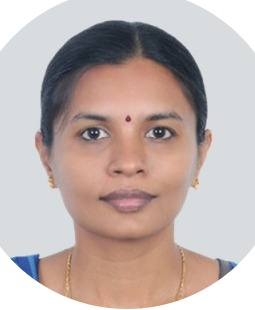
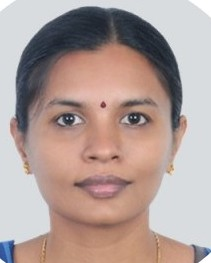
photos sec changed

diff --git a/src/components/CommitteeList.jsx b/src/components/CommitteeList.jsx
@@ -1,11 +1,11 @@
 import React, { useEffect, useState } from "react";
-import '../components-css/CommitteStyles.css'
+import '../components-css/CommitteStyles.css';
 
 export default function CommitteeList() {
   const [members, setMembers] = useState([]);
-  const [tech,setTech]=useState([]);
-  const [pro,setPro]=useState([]);
-  const [org,setOrg]=useState([]);
+  const [tech, setTech] = useState([]);
+  const [pro, setPro] = useState([]);
+  const [org, setOrg] = useState([]);
 
   useEffect(() => {
     fetch("/data/committee.json")
@@ -20,12 +20,14 @@ export default function CommitteeList() {
       .then((data) => setTech(data))
       .catch((err) => console.error("Failed to load committee data:", err));
   }, []);
+
   useEffect(() => {
     fetch("/data/procommittee.json")
       .then((res) => res.json())
       .then((data) => setPro(data))
       .catch((err) => console.error("Failed to load committee data:", err));
   }, []);
+
   useEffect(() => {
     fetch("/data/orgcommittee.json")
       .then((res) => res.json())
@@ -36,7 +38,6 @@ export default function CommitteeList() {
   return (
     <div className="container">
       <h1>ADVISORY COMMITTEE</h1>
-
       <div className="members-list">
         {members.map((member) => (
           <div key={member.id} className="member-card">
@@ -46,7 +47,9 @@ export default function CommitteeList() {
             <p>{member.university}</p>
           </div>
         ))}
-      </div><br />
+      </div>
+
+      <br />
       <h1>TECHNICAL COMMITTEE</h1>
       <div className="members-list">
         {tech.map((member) => (
@@ -57,29 +60,70 @@ export default function CommitteeList() {
             <p>{member.university}</p>
           </div>
         ))}
-      </div><br />
+      </div>
 
+      <br />
       <h1>PROGRAM COMMITTEE</h1>
-      <div className="members-list">
-        {pro.map((member) => (
-          <div key={member.id} className="member-card">
-            <img src={member.image} alt={member.name} width="150" />
-            <h3>{member.name}</h3>
+      <div className="program-hierarchy">
+  {pro.length >= 3 && (
+    <>
+      {/* Patron */}
+      <div className="hierarchy-card main-role">
+        <h3>Patron</h3>
+        <img src={pro[0].image} alt={pro[0].name} />
+        <h4>{pro[0].name}</h4>
+        <p><strong>{pro[0].designation}</strong></p>
+        <p>{pro[0].university}</p>
+      </div>
+
+      {/* Co-Patron */}
+      <div className="hierarchy-card main-role">
+        <h3>Co-Patron</h3>
+        <img src={pro[1].image} alt={pro[1].name} />
+        <h4>{pro[1].name}</h4>
+        <p><strong>{pro[1].designation}</strong></p>
+        <p>{pro[1].university}</p>
+      </div>
+
+      {/* Organizing Chair */}
+      <div className="hierarchy-card main-role">
+        <h3>Organizing Chair</h3>
+        <img src={pro[2].image} alt={pro[2].name} />
+        <h4>{pro[2].name}</h4>
+        <p><strong>{pro[2].designation}</strong></p>
+        <p>{pro[2].university}</p>
+      </div>
+
+      {/* Secretaries Heading */}
+      <h2 className="secretaries-heading">Organizing Secretaries</h2>
+
+      {/* Organizing Secretaries Grid */}
+      <div className="organizing-secretaries">
+        {pro.slice(3).map((member) => (
+          <div key={member.id} className="hierarchy-card secretary-card">
+            <img src={member.image} alt={member.name} />
+            <h4>{member.name}</h4>
             <p><strong>{member.designation}</strong></p>
             <p>{member.university}</p>
           </div>
         ))}
-      </div><br />
+      </div>
+    </>
+  )}
+</div>
 
+
+
+      <br />
       <h1>ORGANIZING COMMITTEE</h1>
-        <div className="committee-box">
-          {org.map((member) => (
-            <div key={member.id} className="committee-row">
-              <span>{member.name}</span>
-              <span>{member.designation}</span>
-            </div>
-          ))}
-        </div>
+      <div className="committee-box">
+        {org.map((member) => (
+          <div key={member.id} className="committee-row">
+            <span>{member.name}</span>
+            <span>{member.designation}</span>
+          </div>
+        ))}
+      </div>
     </div>
   );
 }

diff --git a/src/components-css/CommitteStyles.css b/src/components-css/CommitteStyles.css
@@ -43,7 +43,7 @@ h1 {
   margin: 0 auto 15px;
   border-radius: 15px;
   width: 120px;
-  height: 120px;
+  height: 150px;
   object-fit: cover;
   border: 3px solid #007BFF;
 }
@@ -78,3 +78,73 @@ h1 {
 .committee-row:last-child {
   border-bottom: none;
 }
+img {
+  display: block;
+  margin: 0 auto 15px;
+  width: 150px;
+  height: 190px;
+  object-fit: cover;
+  border-radius: 15px;
+  border: 3px solid #007BFF;
+}
+
+.program-hierarchy {
+  display: flex;
+  flex-direction: column;
+  align-items: center;
+  gap: 30px;
+}
+
+.main-role {
+  background-color: white;
+  border-radius: 15px;
+  box-shadow: 0 4px 15px rgba(0, 123, 255, 0.1);
+  padding: 30px 20px;
+  text-align: center;
+  width: 300px;
+}
+
+.main-role h3 {
+  color: #007BFF;
+  font-size: 1.3rem;
+  margin-bottom: 15px;
+}
+
+.organizing-secretaries {
+  display: grid;
+  grid-template-columns: repeat(auto-fit, minmax(200px, 1fr));
+  gap: 20px;
+  width: 100%;
+  justify-items: center;
+}
+
+.secretaries-heading {
+  text-align: center;
+  color: #007BFF;
+  font-size: 1.8rem;
+  font-weight: bold;
+  margin-top: 40px;
+}
+
+.secretary-card {
+  background-color: white;
+  border-radius: 15px;
+  box-shadow: 0 4px 10px rgba(0, 123, 255, 0.1);
+  padding: 20px;
+  text-align: center;
+  width: 220px;
+}
+
+.hierarchy-card h4 {
+  font-size: 1.1rem;
+  color: #333;
+  margin-bottom: 10px;
+}
+
+.hierarchy-card p {
+  font-size: 0.95rem;
+  color: #555;
+  margin: 5px 0;
+}
+
+

diff --git a/src/App.jsx b/src/App.jsx
@@ -38,11 +38,12 @@ gsap.ticker.lagSmoothing(0);
    <AboutCollege/>
    <AboutDepartment/>
    <AboutConference/>
+   <CommitteeList />
    <Payment/>
    <Bankdetails/>
    {/*just for checking the display guys*/}
   
-      <CommitteeList />
+      
 
    <Contact/>
    <Footer/>
